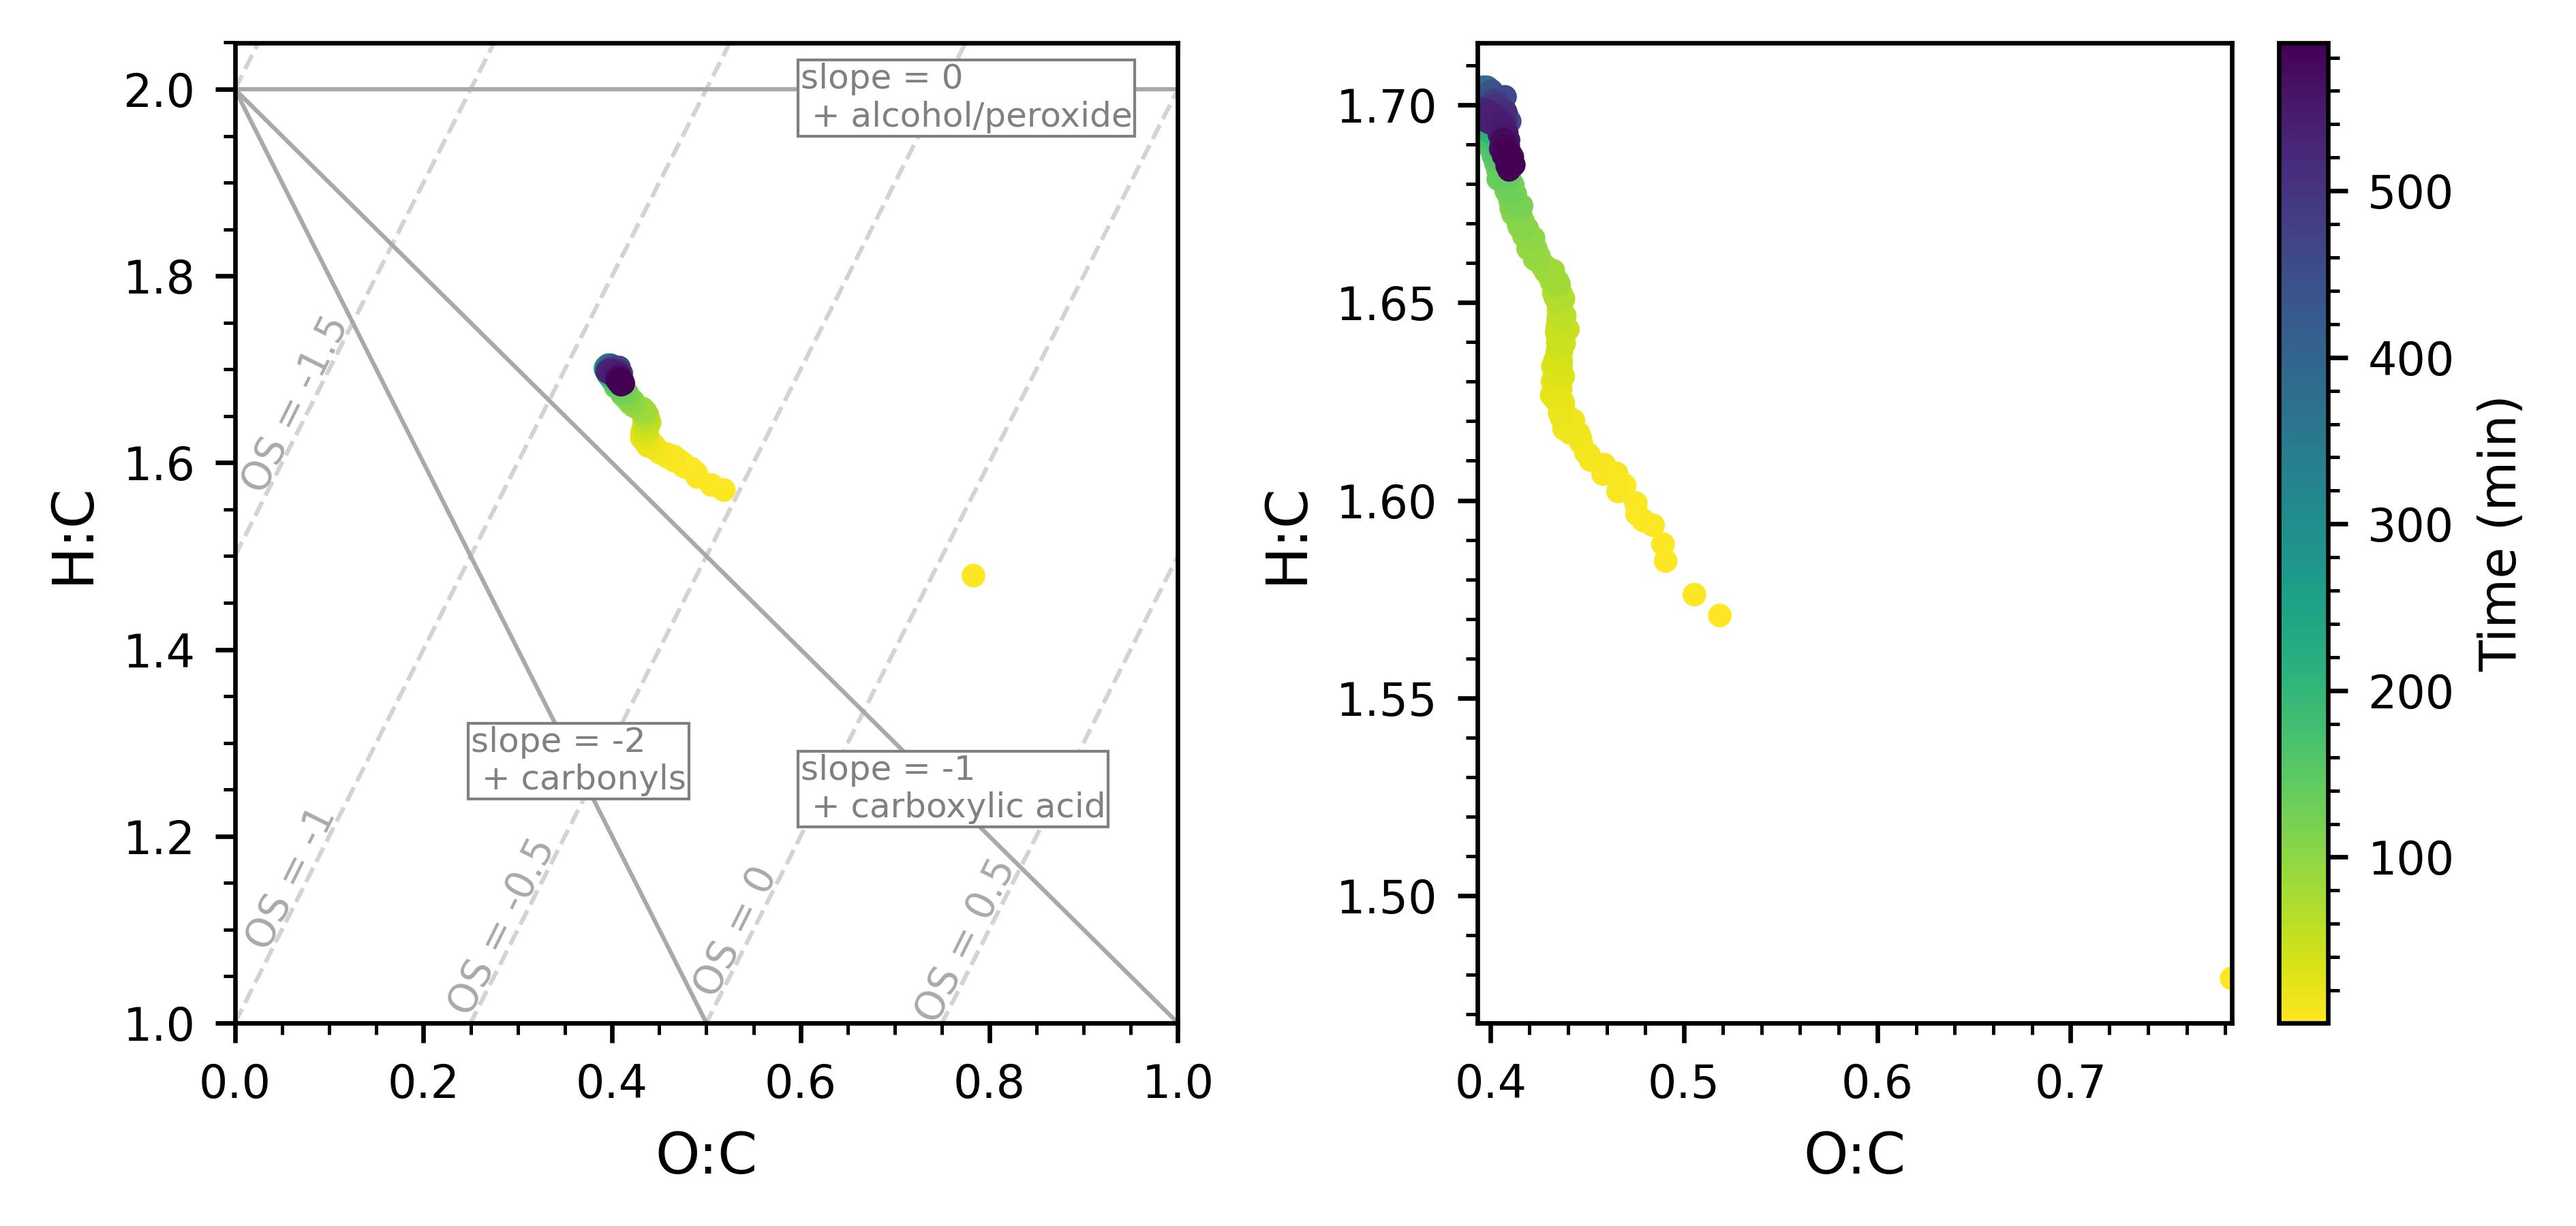
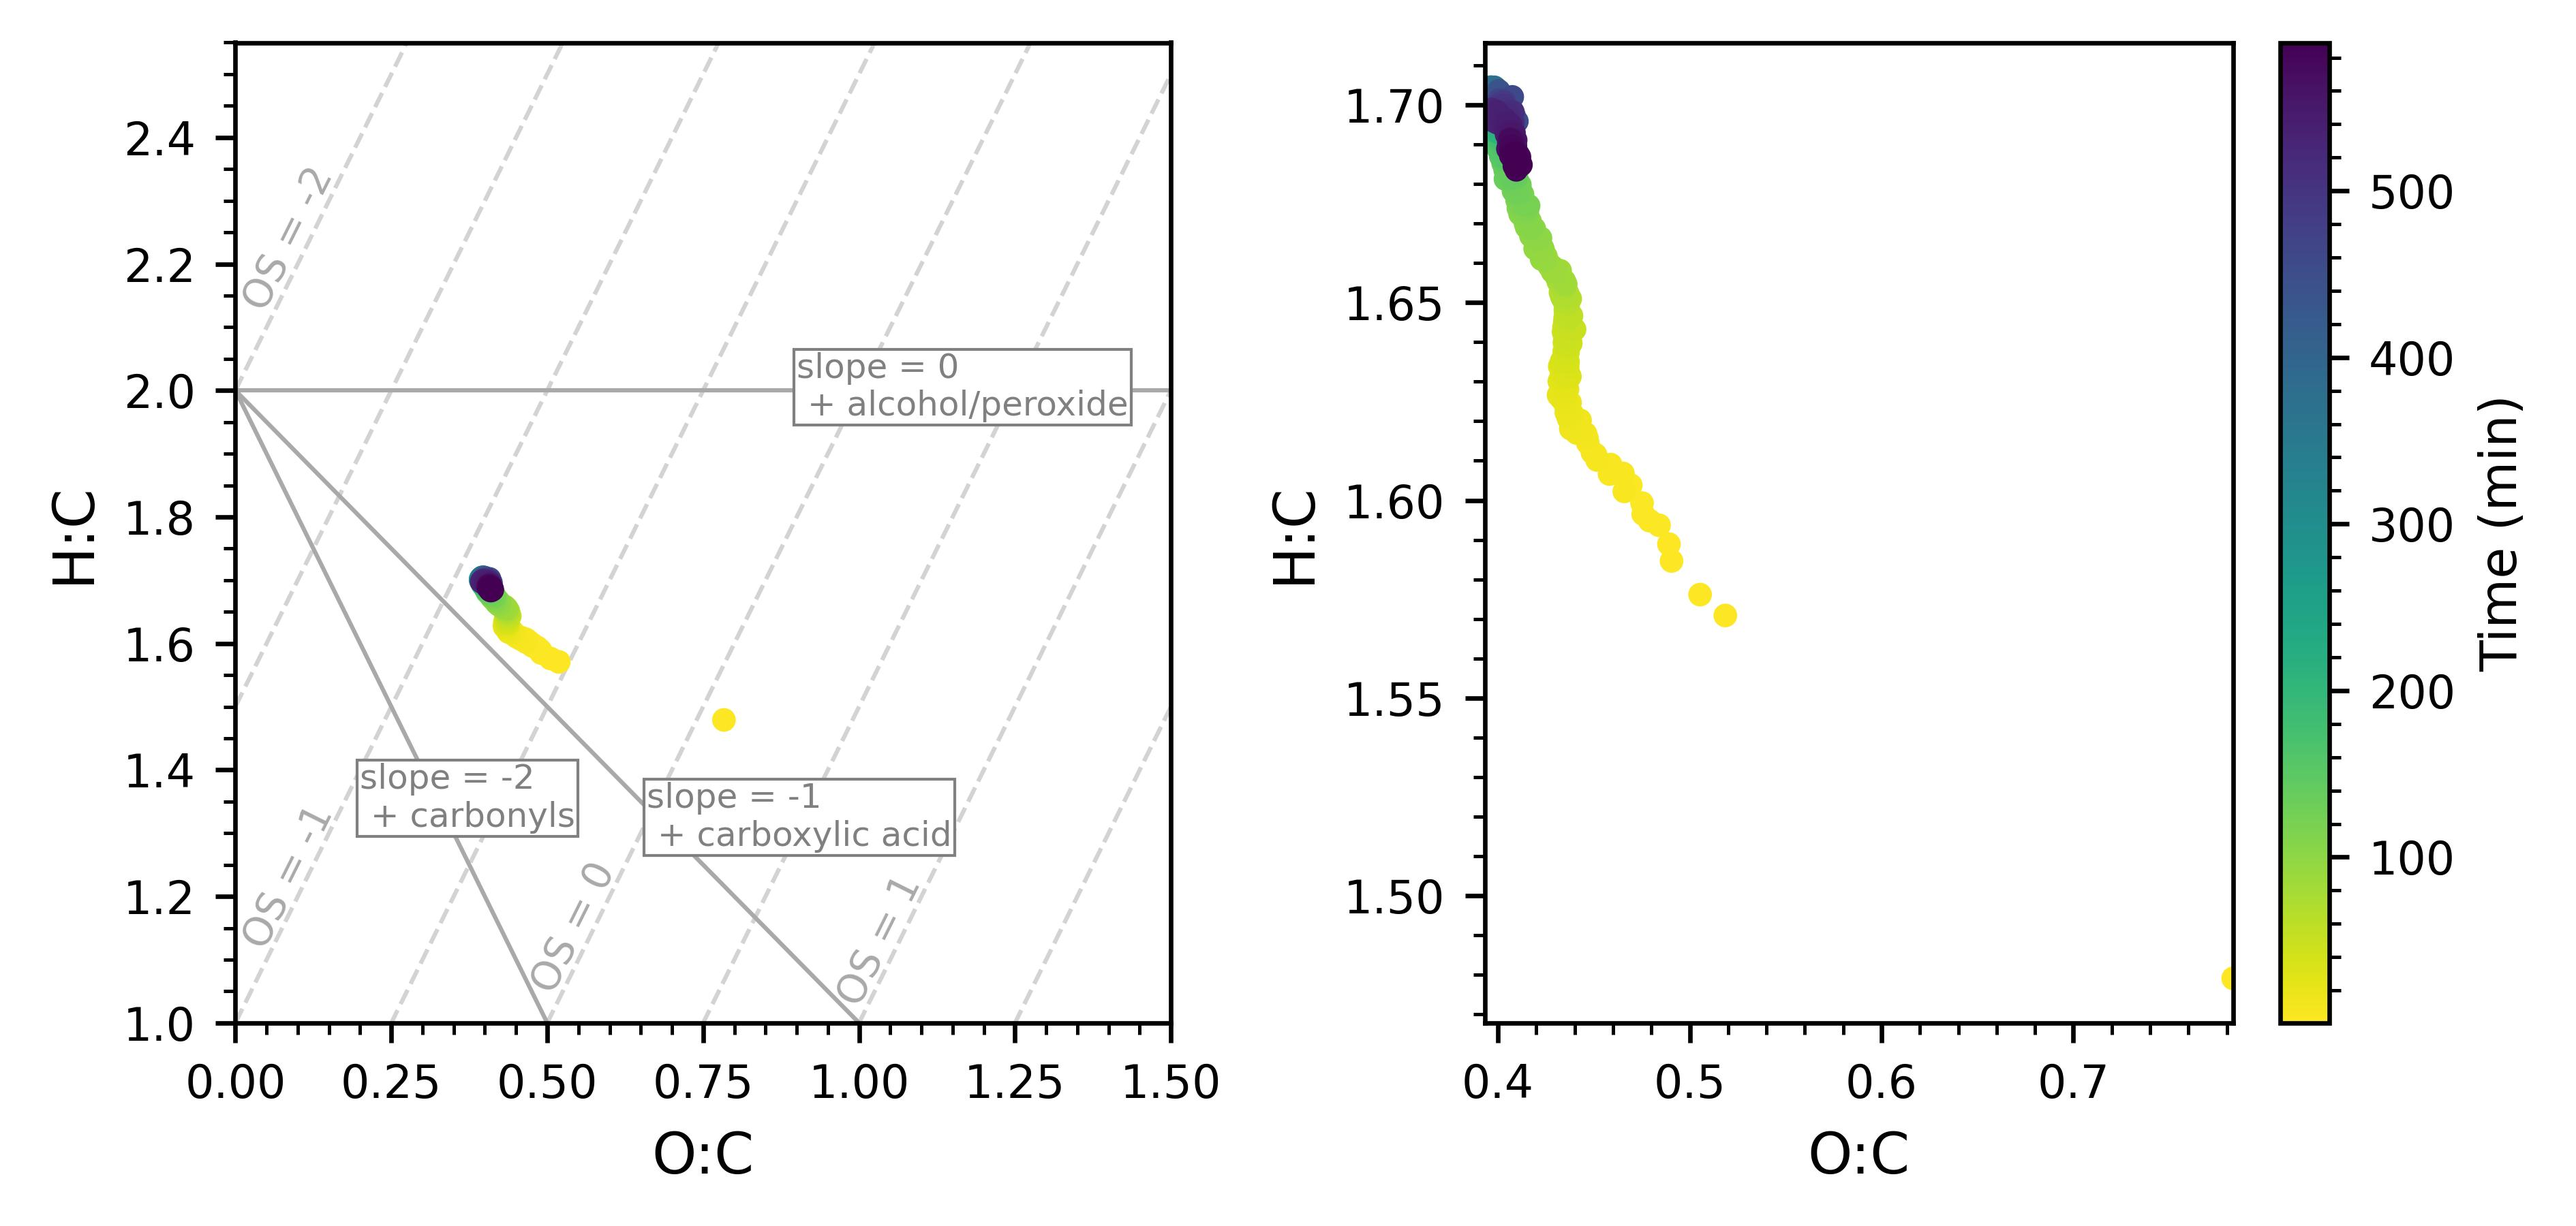
Update

diff --git a/plot_functions.py b/plot_functions.py
@@ -292,25 +292,25 @@ def instrument_comparison(ax, x_data, y_data, label, ax_labels, forced_zero):
     return fit_params, fit_errors, squares, ndof, R2
 
 def vanKrevelen_OS(ax, rotation):
-    O_C_ratio = np.linspace(0, 1, 100)
+    O_C_ratio = np.linspace(0, 1.5, 100)
 
     for OS in np.linspace(-2, 2, 9): # Oxidation states from -2 to 2
         H_C_ratio = 2*O_C_ratio-OS
         ax.plot(O_C_ratio, H_C_ratio, color = 'lightgray', lw = 0.75, ls = '--', zorder = -10)
     
-    OS_labels = ['OS = -1.5', 'OS = -1', 'OS = -0.5', 'OS = 0', 'OS = 0.5']
-    OS_placement = [[0.001, 1.57], [0.005, 1.08], [0.22, 1.01], [0.48, 1.03], [0.715, 1.002]]
+    OS_labels = ['OS = -2', 'OS = -1', 'OS = 0', 'OS = 1']
+    OS_placement = [[0.003, 2.13], [0.003, 1.12], [0.465, 1.05], [0.955, 1.03]]
     for label, placement in zip(OS_labels, OS_placement):
         ax.text(placement[0], placement[1], label, rotation = rotation, fontsize = 7, color = 'darkgray')
 
     # Organic compound lines
-    x = np.linspace(0, 1, 100)
+    x = np.linspace(0, 1.5, 100)
     y1 = linear(x, 0, 2) # Alcohol/peroxide
     y2 = linear(x, -1, 2) # Carboxylic acid
     y3 = linear(x, -2, 2) # Carbonyls (aldehyde/ketone)
 
     compound_labels = ['slope = 0 \n + alcohol/peroxide', 'slope = -1 \n + carboxylic acid', 'slope = -2 \n + carbonyls']
-    compound_placements = [[0.6, 1.96], [0.6, 1.22], [0.25, 1.25]]
+    compound_placements = [[0.9, 1.96], [0.66, 1.28], [0.2, 1.31]]
 
     for i, y in enumerate([y1, y2, y3]):
         ax.plot(x, y, color = 'darkgray', lw = 0.75, zorder = -10)
@@ -319,7 +319,7 @@ def vanKrevelen_OS(ax, rotation):
                 bbox=dict(ec = 'gray', fc = 'white', lw = 0.5, pad = 0.5),
                 color = 'gray', fontsize = 6)
 
-    ax.set(xlim = (0,1), ylim = (1,2.05), xlabel = 'O:C', ylabel = 'H:C')
+    ax.set(xlim = (0,1.5), ylim = (1,2.55), xlabel = 'O:C', ylabel = 'H:C')
     return ax
 
 def vanKrevelen_ts(df, df_keys, timestamps, run_length):
